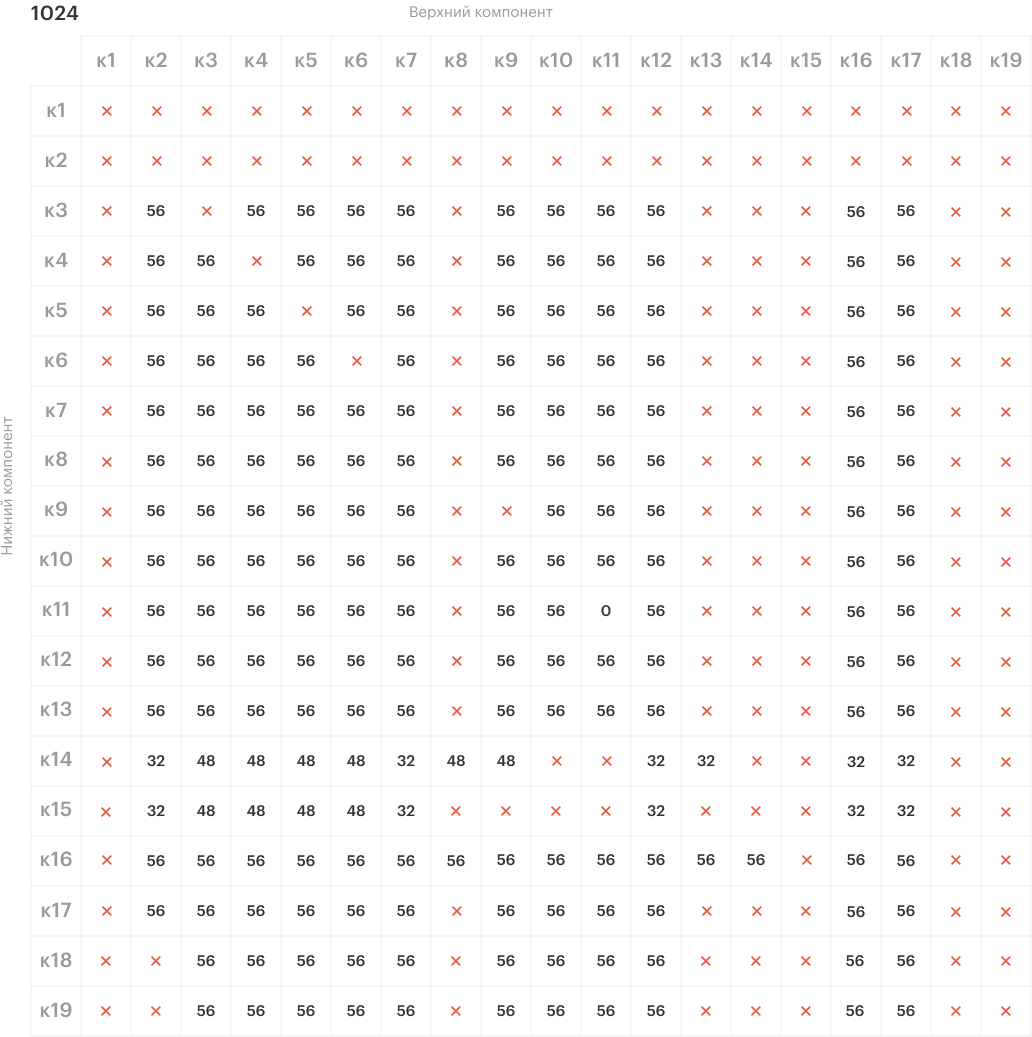
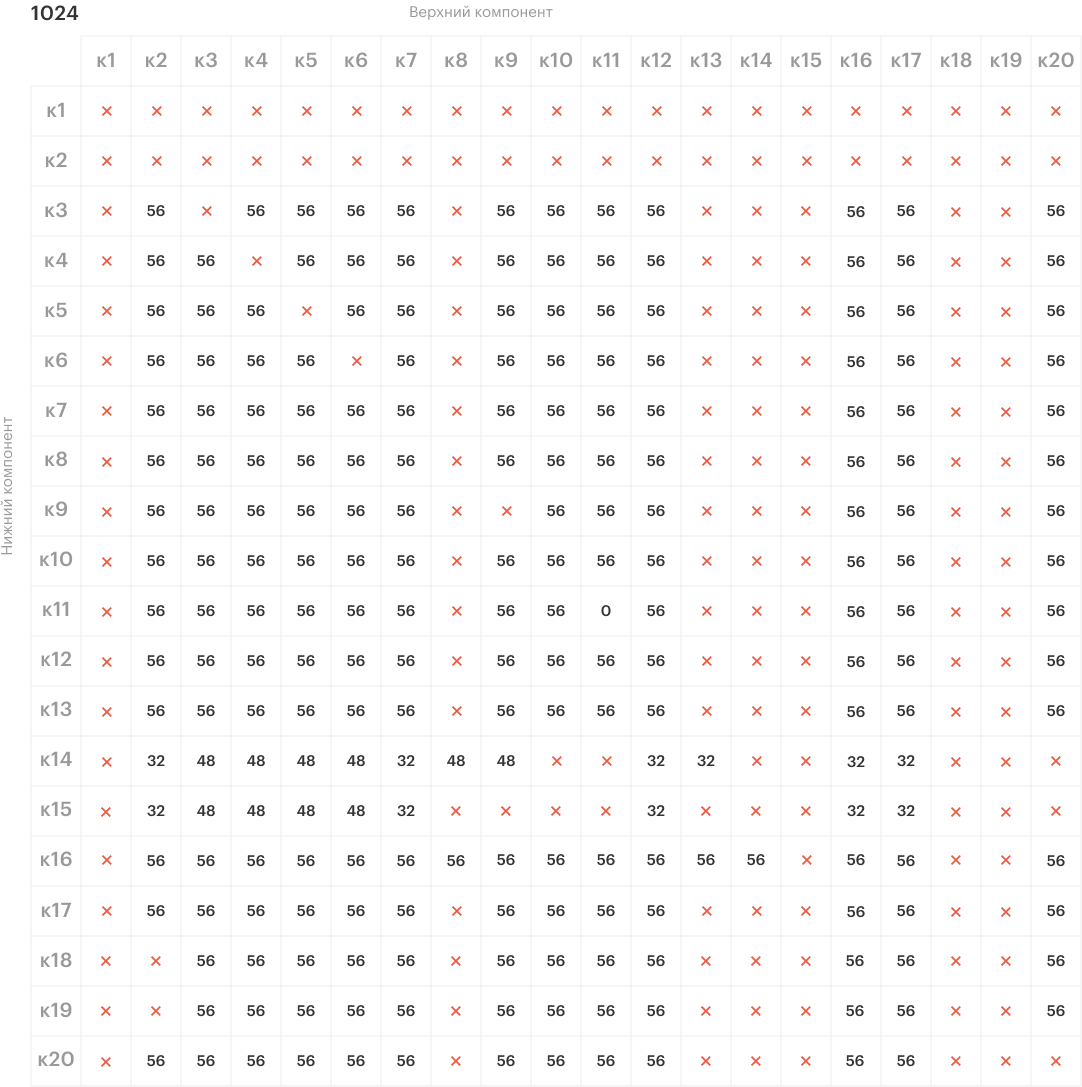
style(container): adds new component

diff --git a/packages/ui-shared/src/components/Container/Container.less b/packages/ui-shared/src/components/Container/Container.less
@@ -20,7 +20,8 @@
 @k17: e('.mfui-beta-picture-with-description');
 @k18: e('.mfui-beta-store-banner');
 @k19: e('.mfui-beta-button-banner');
-@components: @k1, @k2, @k3, @k4, @k5, @k6, @k7, @k8, @k9, @k10, @k11, @k12, @k13, @k14, @k15, @k16, @k17, @k18, @k19;
+@k20: e('.mfui-beta-steps');
+@components: @k1, @k2, @k3, @k4, @k5, @k6, @k7, @k8, @k9, @k10, @k11, @k12, @k13, @k14, @k15, @k16, @k17, @k18, @k19, @k20;
 
 @color-modificator: e('&_bg-color_');
 @color-default: e('default');
@@ -130,41 +131,44 @@
 
     .generateComponentsMargins(@large, @k2, 3, 17);
     .generateComponentsMargins(@small, @k2, 14, 15);
+    .generateComponentsMargins(@large, @k2, 20, 20);
 
     @media @mobileB {
         .generateComponentsMargins(@big, @k2, 3, 17);
         .generateComponentsMargins(@small, @k2, 14, 15);
+        .generateComponentsMargins(@big, @k2, 20, 20);
     }
 
     @media @mobileSM {
         .generateComponentsMargins(@medium, @k2, 3 ,17);
         .generateComponentsMargins(@small, @k2, 14, 15);
+        .generateComponentsMargins(@medium, @k2, 20, 20);
     }
 
     // k3(benefits-icons)
 
-    .generateComponentsMargins(@large, @k3, 4, 19);
+    .generateComponentsMargins(@large, @k3, 4, 20);
     .generateComponentsMargins(@big, @k3, 14, 15);
 
     @media @mobileB {
-        .generateComponentsMargins(@big, @k3, 4, 19);
+        .generateComponentsMargins(@big, @k3, 4, 20);
     }
 
     @media @mobileSM {
-        .generateComponentsMargins(@medium, @k3, 4, 19);
+        .generateComponentsMargins(@medium, @k3, 4, 20);
     }
 
     // k4(benefits-pictures);
 
-    .generateComponentsMargins(@large, @k4, 3, 19);
+    .generateComponentsMargins(@large, @k4, 3, 20);
     .generateComponentsMargins(@big, @k4, 14, 15);
 
     @media @mobileB {
-        .generateComponentsMargins(@big, @k4, 3, 19);
+        .generateComponentsMargins(@big, @k4, 3, 20);
     }
 
     @media @mobileSM {
-        .generateComponentsMargins(@medium, @k4, 3, 19);
+        .generateComponentsMargins(@medium, @k4, 3, 20);
     }
 
     @{k4} + @{k4} {
@@ -173,15 +177,15 @@
 
     // k5(cards-box)
 
-    .generateComponentsMargins(@large, @k5, 3, 19);
+    .generateComponentsMargins(@large, @k5, 3, 20);
     .generateComponentsMargins(@big, @k5, 14, 15);
 
     @media @mobileB {
-        .generateComponentsMargins(@big, @k5, 3, 19);
+        .generateComponentsMargins(@big, @k5, 3, 20);
     }
 
     @media @mobileSM {
-        .generateComponentsMargins(@medium, @k5, 3, 19);
+        .generateComponentsMargins(@medium, @k5, 3, 20);
     }
 
     @{k5} + @{k5} {
@@ -190,15 +194,15 @@
 
     // k6(carousel-box)
 
-    .generateComponentsMargins(@large, @k6, 3, 19);
+    .generateComponentsMargins(@large, @k6, 3, 20);
     .generateComponentsMargins(@big, @k6, 14, 15);
 
     @media @mobileB {
-        .generateComponentsMargins(@big, @k6, 3, 19);
+        .generateComponentsMargins(@big, @k6, 3, 20);
     }
 
     @media @mobileSM {
-        .generateComponentsMargins(@medium, @k6, 3, 19);
+        .generateComponentsMargins(@medium, @k6, 3, 20);
     }
 
     @{k6} + @{k6} {
@@ -207,16 +211,16 @@
 
     // k7(video-block)
 
-    .generateComponentsMargins(@large, @k7, 3, 19);
+    .generateComponentsMargins(@large, @k7, 3, 20);
     .generateComponentsMargins(@small, @k7, 14, 15);
 
     @media @mobileB {
-        .generateComponentsMargins(@big, @k7, 3, 19);
+        .generateComponentsMargins(@big, @k7, 3, 20);
         .generateComponentsMargins(@small, @k7, 14, 15);
     }
 
     @media @mobileSM {
-        .generateComponentsMargins(@medium, @k7, 3, 19);
+        .generateComponentsMargins(@medium, @k7, 3, 20);
         .generateComponentsMargins(@small, @k7, 14, 15);
     }
 
@@ -260,14 +264,14 @@
         margin-top: @big;
     }
 
-    .generateComponentsMargins(@large, @k9, 3, 19);
+    .generateComponentsMargins(@large, @k9, 3, 20);
 
     @media @mobileB {
-        .generateComponentsMargins(@big, @k9, 3, 19);
+        .generateComponentsMargins(@big, @k9, 3, 20);
     }
 
     @media @mobileSM {
-        .generateComponentsMargins(@medium, @k9, 3, 19);
+        .generateComponentsMargins(@medium, @k9, 3, 20);
     }
 
     @{k9} + @{k9},
@@ -277,10 +281,10 @@
 
     // k10(instructions)
 
-    .generateComponentsMargins(@large, @k10, 3, 19);
+    .generateComponentsMargins(@large, @k10, 3, 20);
 
     @media @mobile {
-        .generateComponentsMargins(@big, @k10, 3, 19);
+        .generateComponentsMargins(@big, @k10, 3, 20);
     }
 
     @{k10} + @{k14},
@@ -290,14 +294,14 @@
 
     // k11(property)
 
-    .generateComponentsMargins(@large, @k11, 3, 19);
+    .generateComponentsMargins(@large, @k11, 3, 20);
 
     @media @mobileB {
-        .generateComponentsMargins(@big, @k11, 3, 19);
+        .generateComponentsMargins(@big, @k11, 3, 20);
     }
 
     @media @mobileSM {
-        .generateComponentsMargins(@medium, @k11, 3, 19);
+        .generateComponentsMargins(@medium, @k11, 3, 20);
     }
 
     @{k11} + @{k14},
@@ -307,16 +311,16 @@
 
     // k12(table)
 
-    .generateComponentsMargins(@large, @k12, 3, 19);
+    .generateComponentsMargins(@large, @k12, 3, 20);
     .generateComponentsMargins(@small, @k12, 14, 15);
 
     @media @mobileB {
-        .generateComponentsMargins(@big, @k12, 3, 19);
+        .generateComponentsMargins(@big, @k12, 3, 20);
         .generateComponentsMargins(@small, @k12, 14, 15);
     }
 
     @media @mobileSM {
-        .generateComponentsMargins(@medium, @k12, 3, 19);
+        .generateComponentsMargins(@medium, @k12, 3, 20);
         .generateComponentsMargins(@small, @k12, 14, 15);
     }
 
@@ -354,31 +358,47 @@
 
     // k16(text-box)
 
-    .generateComponentsMargins(@large, @k16, 3, 19);
+    .generateComponentsMargins(@large, @k16, 3, 20);
     .generateComponentsMargins(@small, @k16, 14, 15);
 
     @media @mobileB {
-        .generateComponentsMargins(@big, @k16, 3, 19);
+        .generateComponentsMargins(@big, @k16, 3, 20);
         .generateComponentsMargins(@small, @k16, 14, 15);
     }
 
     @media @mobileSM {
-        .generateComponentsMargins(@medium, @k16, 3, 19);
+        .generateComponentsMargins(@medium, @k16, 3, 20);
         .generateComponentsMargins(@small, @k16, 14, 15);
     }
 
     // k17(picture-with-description)
 
-    .generateComponentsMargins(@large, @k17, 3, 19);
+    .generateComponentsMargins(@large, @k17, 3, 20);
     .generateComponentsMargins(@small, @k17, 14, 15);
 
     @media @mobileB {
-        .generateComponentsMargins(@big, @k17, 3, 19);
+        .generateComponentsMargins(@big, @k17, 3, 20);
         .generateComponentsMargins(@small, @k17, 14, 15);
     }
 
     @media @mobileSM {
-        .generateComponentsMargins(@medium, @k17, 3, 19);
+        .generateComponentsMargins(@medium, @k17, 3, 20);
         .generateComponentsMargins(@small, @k17, 14, 15);
+    }
+
+    // k20(steps)
+    .generateComponentsMargins(@large, @k20, 3, 19);
+
+    @{k20} + @{k14},
+    @{k20} + @{k15} {
+        .disableMarginTop();
+    }
+
+    @media @mobileB {
+        .generateComponentsMargins(@big, @k20, 3, 19);
+    }
+
+    @media @mobileSM {
+        .generateComponentsMargins(@medium, @k20, 3, 19);
     }
 }
